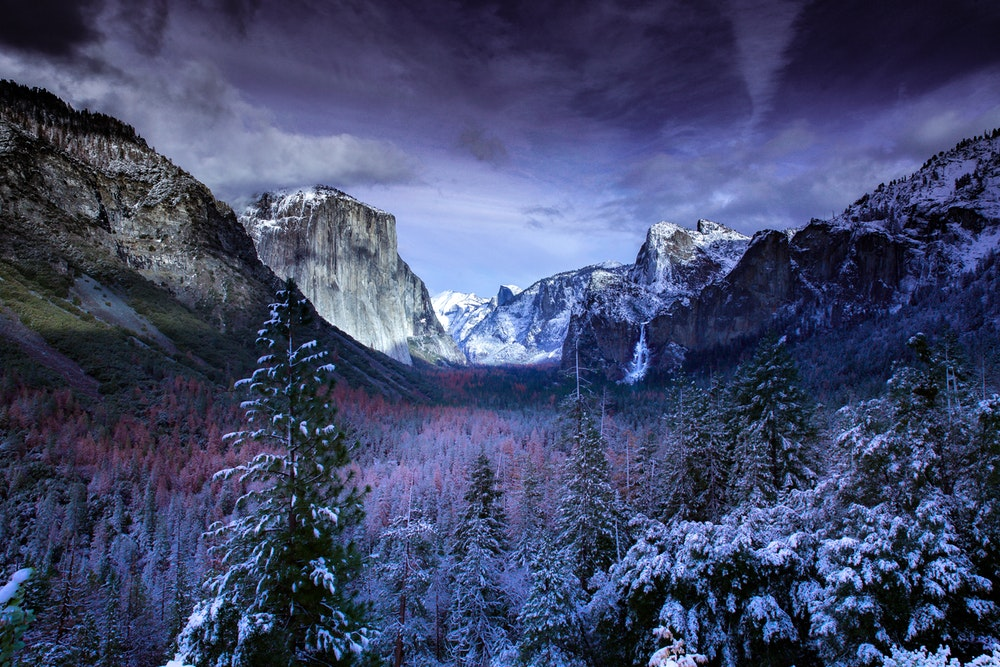
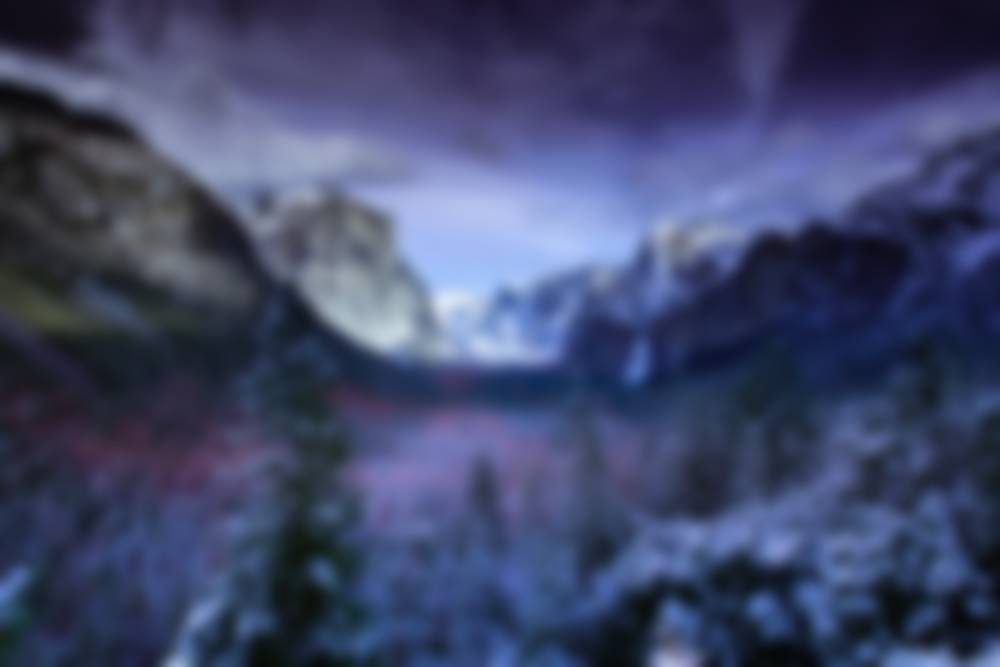
Change bg to not required blur

diff --git a/components/Layout.js b/components/Layout.js
@@ -25,13 +25,11 @@ const BGImage = () => (
       div {
         position: fixed;
         background-image: url("/static/img/app/bg.jpg");
-        filter: blur(8px);
         height: 100%;
         width: 100%;
         background-position: center;
         background-repeat: no-repeat;
         background-size: cover;
-        transform: scale(1.1);
       }
     `}</style>
   </React.Fragment>
